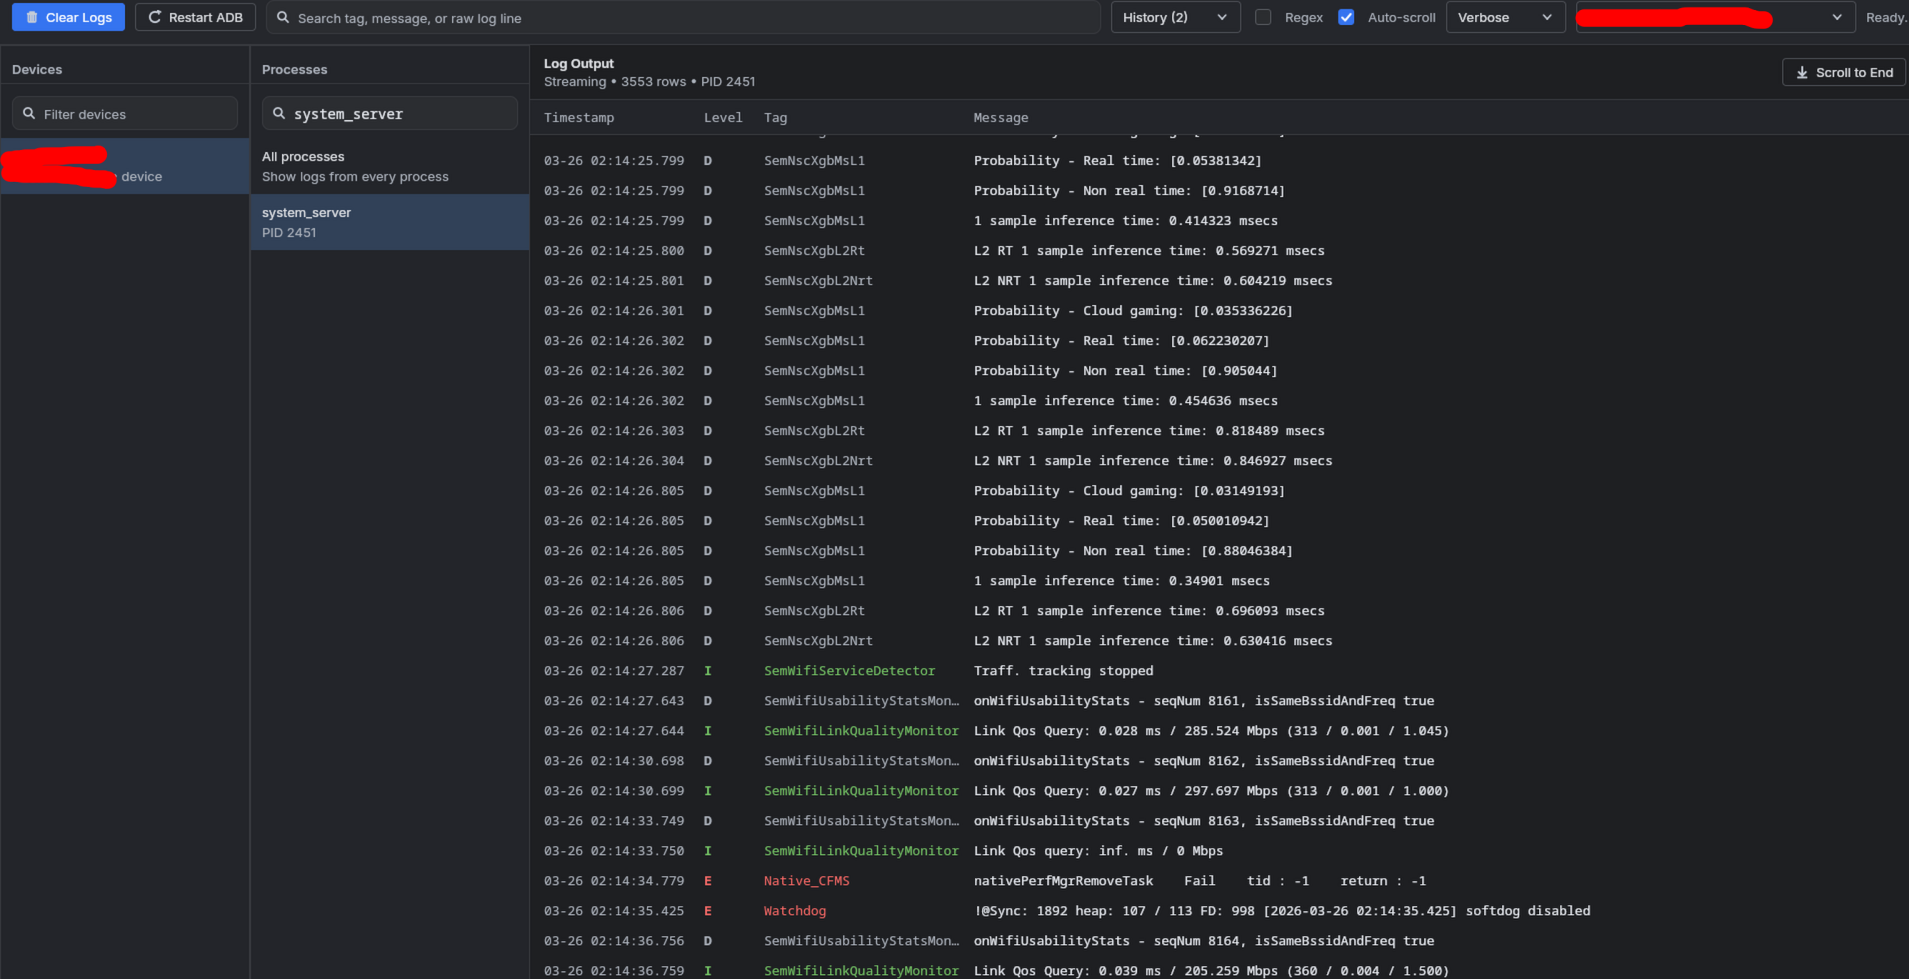
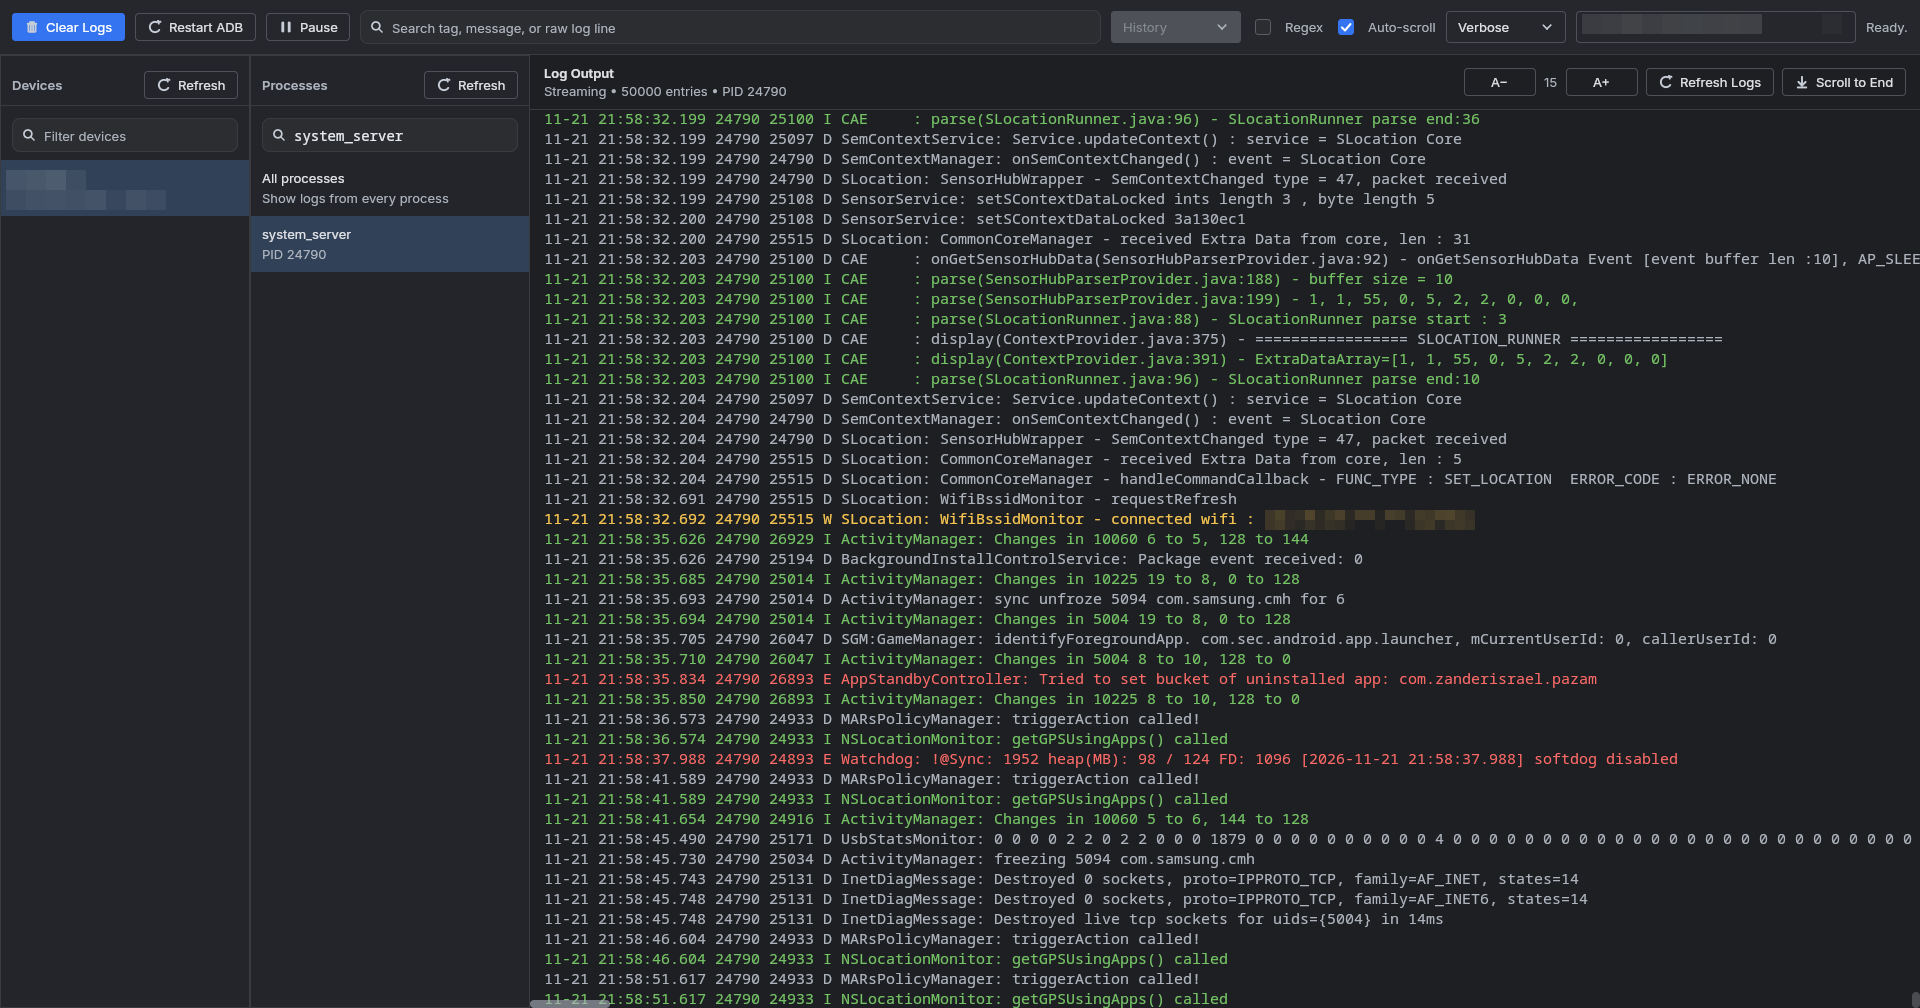
Update README and screenshot for current app

diff --git a/README.md b/README.md
@@ -23,7 +23,7 @@ It is meant to feel close to the modern Android Studio logcat experience while s
   - `----- Process stopped: pid: 213 ------`
   - `----- Process started: pid: 1231 ------`
 - Keeps a history of previously used log filters
-- Supports auto-scroll, manual scroll-to-end, clearing logs, and restarting ADB
+- Supports pausing and resuming the stream, auto-scroll, manual scroll-to-end, clearing logs, and restarting ADB
 
 ## UI Overview
 
@@ -34,7 +34,7 @@ It is meant to feel close to the modern Android Studio logcat experience while s
   Pick a process or `All processes`, or refresh running processes. If a selected process restarts with a new PID, the app follows it automatically.
 
 - Top toolbar:
-  Main log search, filter history, regex toggle, auto-scroll toggle, log level selector, device selector, clear logs, and restart ADB.
+  Main log search, filter history, regex toggle, auto-scroll toggle, log level selector, device selector, clear logs, restart ADB, and pause/resume.
 
 - Log output:
   Shows full log lines as monospaced text colored by severity. Drag across lines to select and copy multiple logs. Double-click selects a word, triple-click selects a line. Lines do not wrap; scroll sideways (Shift+wheel) for long messages. Change the text size with `A−`/`A+` in the log header, `Ctrl`+wheel, or `Ctrl+=` / `Ctrl+-` (`Ctrl+0` resets). Use `Refresh Logs` to reload the device's buffered logs without clearing them on the device.
@@ -166,6 +166,9 @@ Current limitation:
 - `Restart ADB`
   Runs `adb kill-server` then `adb start-server`, then reconnects.
 
+- `Pause` / `Resume`
+  Pauses the visible output while logcat keeps streaming in the background. New logs are held and appended when you resume.
+
 - `Scroll to End`
   Jumps to the latest log line and re-enables auto-scroll.
 
@@ -179,14 +182,16 @@ Current limitation:
 
 ## Project Structure
 
-- [composeApp](/home/lidan/IdeaProjects/logcatui/composeApp)
-  Desktop application module
+All sources live in `composeApp/src/jvmMain/kotlin/me/lidan/logcatui/`:
 
-- [composeApp/src/jvmMain/kotlin/me/lidan/logcatui/App.kt](/home/lidan/IdeaProjects/logcatui/composeApp/src/jvmMain/kotlin/me/lidan/logcatui/App.kt)
-  Desktop UI and filter parsing
+- `main.kt`, `App.kt`: window entry point and root composable
+- `AppViewer.kt`, `AppSidebar.kt`, `AppMainPanel.kt`, `AppComponents.kt`: layout, sidebars, toolbar, and shared widgets
+- `LogTextView.kt`: virtualized, selectable, severity-colored log view
+- `AppSearch.kt`, `AppFilters.kt`: search query parsing and list filtering
+- `AppTheme.kt`, `AppIcons.kt`: colors and icons
+- `LogcatBackend.kt`: ADB integration, streaming, process tracking, and state management
 
-- [composeApp/src/jvmMain/kotlin/me/lidan/logcatui/LogcatBackend.kt](/home/lidan/IdeaProjects/logcatui/composeApp/src/jvmMain/kotlin/me/lidan/logcatui/LogcatBackend.kt)
-  ADB integration, streaming, process tracking, and state management
+Tests live in `composeApp/src/jvmTest/kotlin/me/lidan/logcatui/`.
 
 ## Development
 
